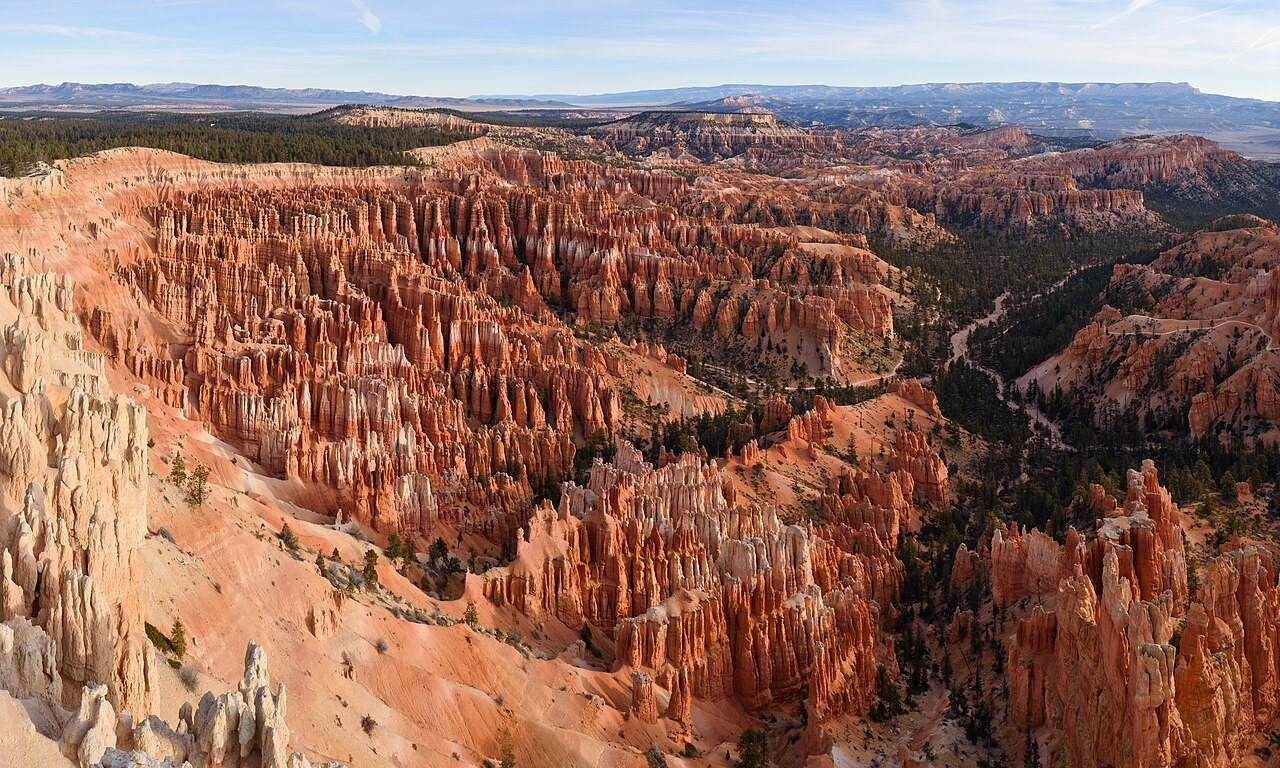
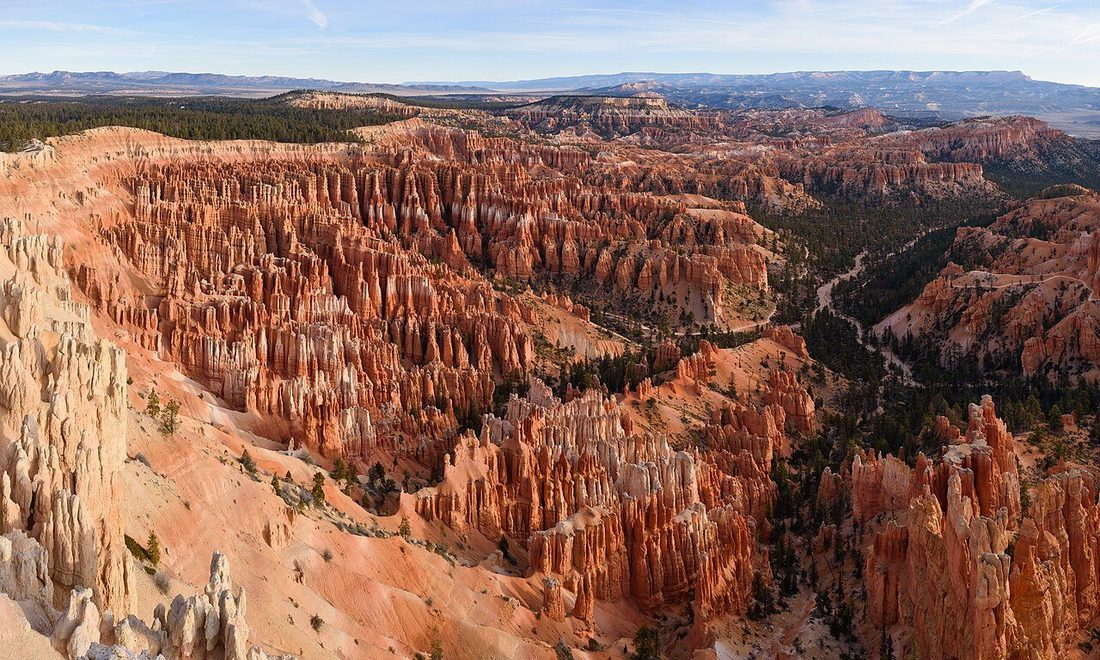
Perbaiki kontras warna dan kecilkan foto
Lighthouse menyorot warna bata: di atas latar krem kontrasnya 4,35:1, di bawah syarat 4,5:1 untuk teks kecil, jadi warna digelapkan sedikit jadi #A8501C. Foto taman nasional juga dikecilkan ke lebar 1100 piksel sesuai ukuran tampil di layar rapat, memangkas hampir 40 persen berat halaman.

diff --git a/index.html b/index.html
@@ -32,9 +32,9 @@
 </header>
 
 <div class="jalur-foto">
-  <figure><img src="assets/foto/yellowstone.jpg" alt="Kolam air panas berasap di Yellowstone" width="1280" height="853"></figure>
-  <figure><img src="assets/foto/yosemite.jpg" alt="Tebing batu di Yosemite" width="1280" height="853"></figure>
-  <figure><img src="assets/foto/bryce.jpg" alt="Batuan merah di Bryce Canyon" width="1280" height="853"></figure>
+  <figure><img src="assets/foto/yellowstone.jpg" alt="Kolam air panas berasap di Yellowstone" width="1100" height="779"></figure>
+  <figure><img src="assets/foto/yosemite.jpg" alt="Tebing batu di Yosemite" width="1100" height="697"></figure>
+  <figure><img src="assets/foto/bryce.jpg" alt="Batuan merah di Bryce Canyon" width="1100" height="660"></figure>
 </div>
 <p class="keterangan">Yellowstone, Yosemite, dan Bryce Canyon &mdash; tiga dari empat taman nasional yang datanya saya olah. Foto: Wikimedia Commons.</p>
 

diff --git a/css/style.css b/css/style.css
@@ -9,7 +9,8 @@
   --hutan-2: #2F5940;
   --krem:    #F6F2E9;
   --krem-2:  #E7DFCE;
-  --bata:    #B5561F;
+  --bata:    #A8501C;   /* digelapkan sedikit dari #B5561F: di atas krem
+                           kontrasnya 4,35:1, sedangkan teks kecil butuh 4,5:1 */
   --tinta:   #23201C;
   --pudar:   #6E675C;
   --serif:   Georgia, "Times New Roman", Times, serif;

diff --git a/README.md b/README.md
@@ -35,7 +35,7 @@ apa pun.
 ## Catatan tampilan
 
 Palet warna diambil dari foto taman nasional yang dipakai di halaman:
-hijau hutan `#1F3D2B`, krem `#F6F2E9`, dan bata `#B5561F`. Tampilannya dibuat
+hijau hutan `#1F3D2B`, krem `#F6F2E9`, dan bata `#A8501C`. Tampilannya dibuat
 seperti halaman cetak — judul memakai huruf serif, pemisah antar bagian memakai
 garis tipis alih-alih kotak dan bayangan. Tidak ada gradien warna.
 
